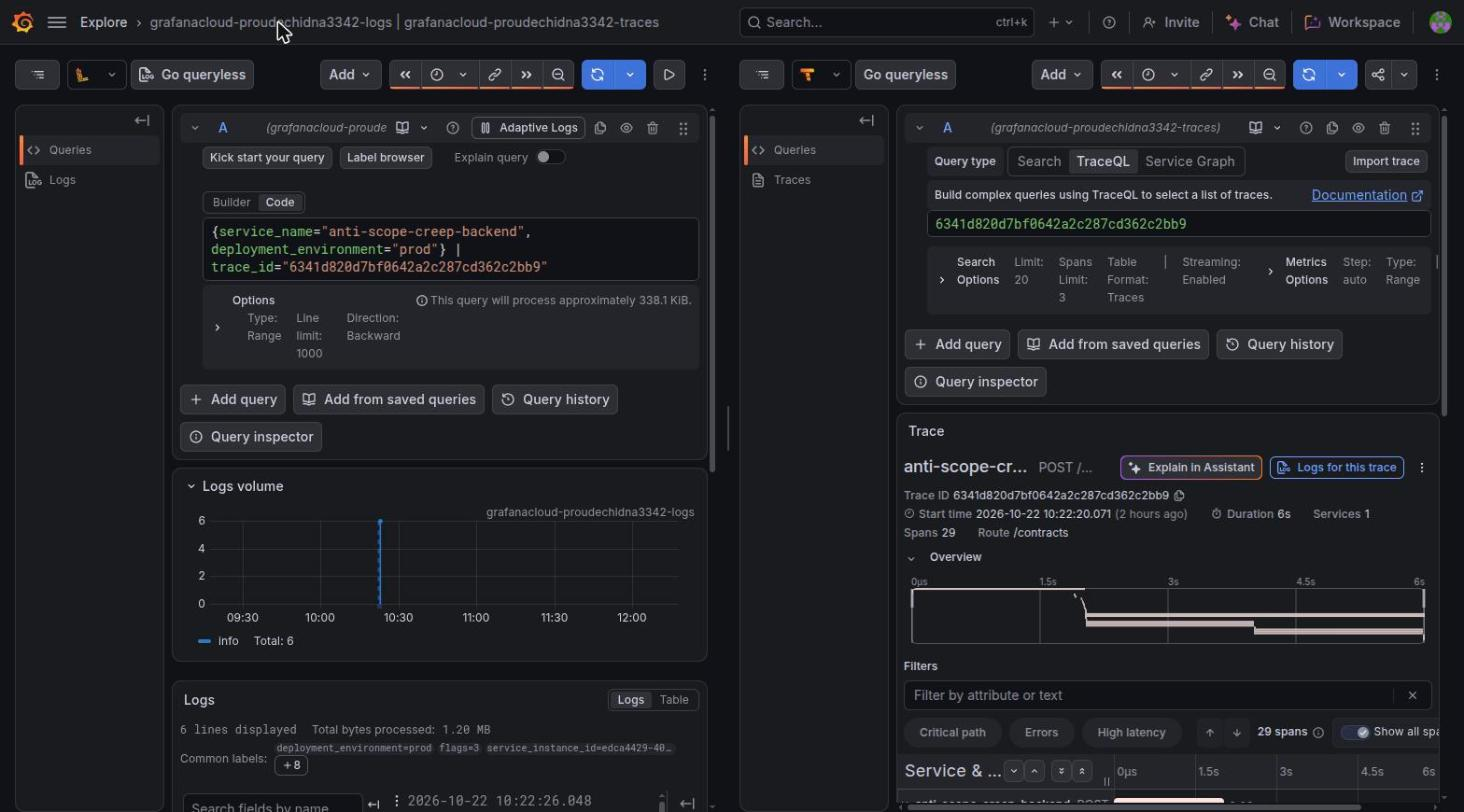
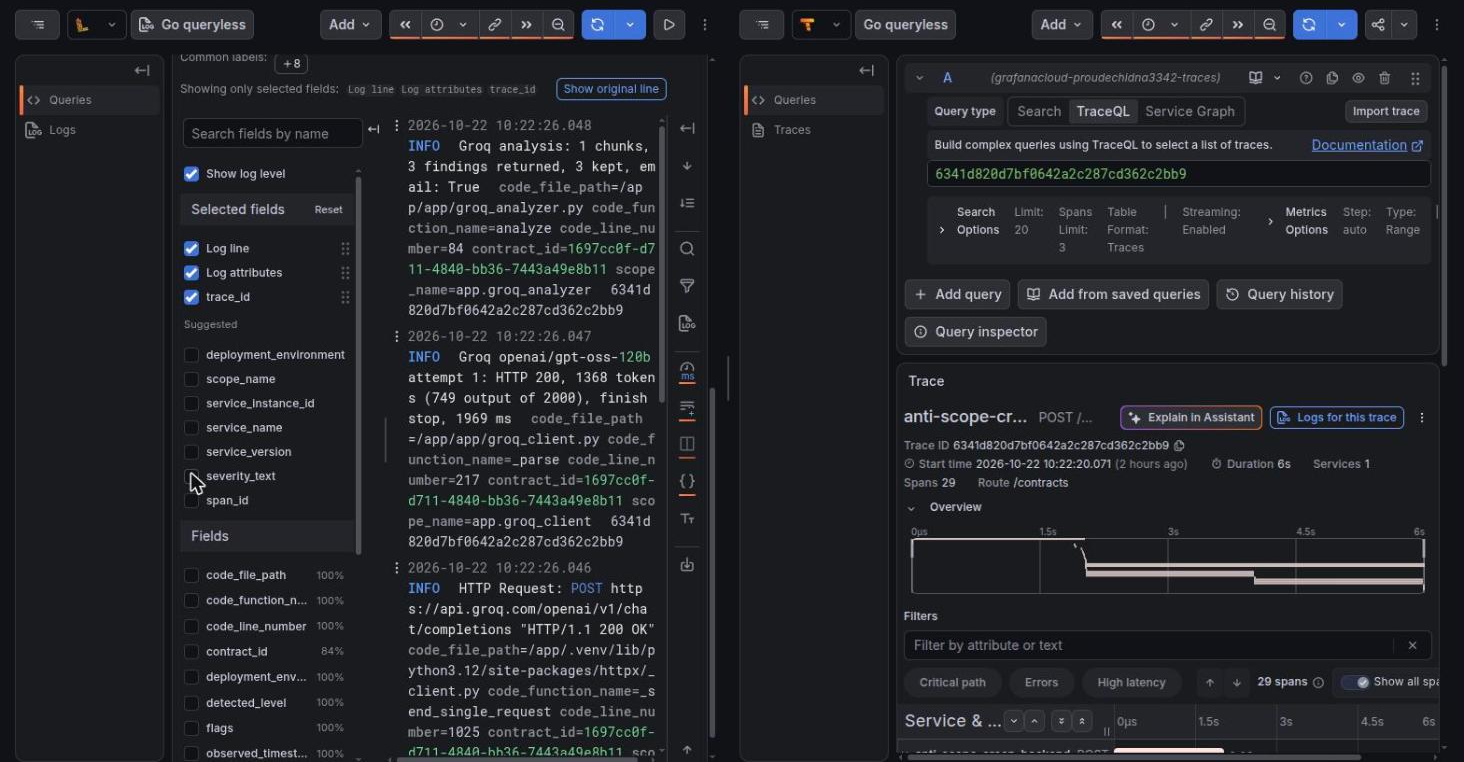
docs: README fixes after a cold read as a reviewer
The drill is described as a planned fault with a real alert; the tracker line says
when it was opened; unit and integration tests are named, with prerequisites;
Semgrep is report only; the Pro button is explained; screenshot 10 now shows the
trace_id in the log lines next to the same id in the trace, without the page header;
mcp-server is in the CI job list; the layout paragraph is gone.

diff --git a/README.md b/README.md
@@ -28,17 +28,17 @@ daily quota may be spent: try again later. [AI data policy](docs/ai-data-policy.
 | # | Criterion | Where to look | In one line |
 |---|---|---|---|
 | 1 | Problem Description | [Problem](#problem), [What it does](#what-it-does), [`spec.md`](docs/spec.md) | the problem, the behavior and screenshots are on this page |
-| 2 | Product Specification | [`docs/spec.md`](docs/spec.md), [GitHub Issues](https://github.com/vadimvvlasov/anti-scope-creep/issues) | data model, status flow, severity matrix, error codes; tracker with acceptance criteria, closed by pull requests (`Closes #n`) |
-| 3 | Agent Team Specification | [`docs/ai-workflow.md`](docs/ai-workflow.md#agent-team), [`docs/permissions.md`](docs/permissions.md) | ten roles, what each may and may not touch, a six-step flow |
+| 2 | Product Specification | [`docs/spec.md`](docs/spec.md), [GitHub Issues](https://github.com/vadimvvlasov/anti-scope-creep/issues) | data model, status flow, severity matrix, error codes; a public tracker (opened 2026-10-22, earlier work is planned in [`architecture.md`](docs/architecture.md) section 10) with acceptance criteria, closed by pull requests (`Closes #n`) |
+| 3 | Agent Team Specification | [`docs/ai-workflow.md`](docs/ai-workflow.md#agent-team), [`docs/permissions.md`](docs/permissions.md) | ten members (agents, CI and the owner), what each may and may not touch, a six-step flow |
 | 4 | Context Management | [`AGENTS.md`](AGENTS.md), [`frontend/AGENTS.md`](frontend/AGENTS.md) | one entry file with commands, rules and links to the modular docs |
 | 5 | Application | `frontend/`, `backend/`, [`openapi.yaml`](openapi.yaml) | React, FastAPI, Postgres; upload, background analysis, findings, report export |
-| 6 | Testing | [Tests](#tests), [`docs/testing.md`](docs/testing.md) | backend 419, frontend 71, Playwright end-to-end 11; CI on every pull request |
+| 6 | Testing | [Tests](#tests), [`docs/testing.md`](docs/testing.md) | unit: backend 419 (SQLite and PostgreSQL), frontend 71; integration: Playwright 11 against the Docker stack; CI on every pull request |
 | 7 | Containerization | [`compose.yaml`](compose.yaml), `backend/Dockerfile`, `frontend/Dockerfile` | `make up` starts Postgres, migrations, backend and frontend |
 | 8 | Deployment | [Deploy](#deploy-and-cicd), [`docs/deploy.md`](docs/deploy.md) | public URL; Cloudflare Workers, AWS Lightsail, Neon; a smoke test after every deploy |
-| 9 | CI/CD | [`.github/workflows/`](.github/workflows/), [Deploy](#deploy-and-cicd) | seven CI jobs on every pull request, auto deploy to dev, manual approved promote to prod, rollback in the [runbook](ops/runbook.md) |
-| 10 | Observability | [Observability](#observability-alerts-on-call-agent), [`ops/grafana/`](ops/grafana/README.md) | traces, metrics and JSON logs with one trace id in Grafana Cloud (dev and prod); no contract text in telemetry (tested) |
-| 11 | Alerting on User Impact | [`ops/grafana/alert-rules.yaml`](ops/grafana/alert-rules.yaml) | two rules on what a user notices; fired twice on a real fault; [alert email](docs/screenshots/07-alert-email-5xx.png) |
-| 12 | On-Call Agent | [`on-call.yml`](.github/workflows/on-call.yml), [drill write-up](ops/diagnosis/2026-10-21-oncall-drill.md) | a real alert woke the agent and it opened a fix pull request ([#72](https://github.com/vadimvvlasov/anti-scope-creep/pull/72)); the fourth run of the drill, see below |
+| 9 | CI/CD | [`.github/workflows/`](.github/workflows/), [Deploy](#deploy-and-cicd) | seven CI jobs, auto deploy to dev, manual approved promote to prod, [rollback](ops/runbook.md#roll-back-prod) |
+| 10 | Observability | [Observability](#observability-alerts-on-call-agent), [`ops/grafana/`](ops/grafana/README.md) | traces, metrics and JSON logs with one trace id in Grafana Cloud (dev and prod; it is private, the screenshots below are the evidence); no contract text in telemetry (tested) |
+| 11 | Alerting on User Impact | [`ops/grafana/alert-rules.yaml`](ops/grafana/alert-rules.yaml) | two rules on what a user notices; the 5xx rule fired twice in the drill; [alert email](docs/screenshots/07-alert-email-5xx.png) |
+| 12 | On-Call Agent | [`on-call.yml`](.github/workflows/on-call.yml), [drill write-up](ops/diagnosis/2026-10-21-oncall-drill.md) | a planned fault on dev, a real alert: the agent opened the fix pull request ([#72](https://github.com/vadimvvlasov/anti-scope-creep/pull/72)) on the fourth run, see below |
 
 The evidence per criterion and what is still open: [`docs/rubric.md`](docs/rubric.md).
 
@@ -58,6 +58,7 @@ every contract is not realistic, and there is rarely time to review one line by 
   the text leaves the backend, and restored in the answer
 - Contract Details shows the text beside the findings with highlights; export a PDF or DOCX report
 - A short contract takes seconds; a long one (about 55,000 characters) about three minutes on the free tier
+- The **Pro** button in the header records interest in a paid plan (a demand test, no payments)
 - **Planned, not built yet:** History Search answered by a text-to-SQL agent
   ([#86](https://github.com/vadimvvlasov/anti-scope-creep/issues/86); the screen exists and answers "coming
   soon"), and a classifier fine-tuned on CUAD
@@ -66,7 +67,7 @@ every contract is not realistic, and there is rarely time to review one line by 
 |---|---|---|
 | ![Login](docs/screenshots/01-login.png) | ![Contract history](docs/screenshots/02-contract-history.png) | ![New analysis](docs/screenshots/03-new-analysis.png) |
 
-| Contract Details: text beside findings, export | History Search: "coming soon" until #86 |
+| Contract Details: text beside findings, export (local demo data, stub analyzer) | History Search: "coming soon" until #86 |
 |---|---|
 | ![Contract details](docs/screenshots/04-contract-details.png) | ![History search](docs/screenshots/05-history-search.png) |
 
@@ -90,12 +91,13 @@ make down    # stop; the database volume is kept
 make test-all
 ```
 
-- Installs the dependencies, starts a throwaway PostgreSQL, runs the unit tests (backend on SQLite and
-  PostgreSQL, frontend with Vitest), starts the Docker stack, runs the Playwright end-to-end tests against
-  it and stops everything, also when a test fails
+- Needs Docker, [uv](https://docs.astral.sh/uv/) and Node.js 20+. It installs the dependencies, starts a
+  throwaway PostgreSQL, runs the **unit** tests (backend with pytest on SQLite and PostgreSQL, frontend with
+  Vitest), starts the Docker stack, runs the **integration** tests (Playwright against the real frontend,
+  backend and Postgres) and stops everything, also when a test fails
 - On 2026-10-22, from a fresh clone: backend 419 passed, frontend 71 passed, end-to-end 11 passed
-- CI runs the same tests on every pull request, plus Semgrep, a Docker build and a check that
-  `openapi.yaml` matches the routes
+- CI runs the same tests on every pull request, plus a Docker build, a check that `openapi.yaml` matches
+  the routes, and Semgrep (report only: findings are reviewed, they do not fail the build yet)
 - Step by step, and on a fresh Linux machine: [`docs/testing.md`](docs/testing.md)
 
 ## Deploy and CI/CD
@@ -120,11 +122,14 @@ make test-all
   and prod; logs and traces share a `trace_id`. No contract text and no exception message leave the service
   (tests: `test_telemetry_signals.py`, `test_telemetry_exceptions.py`)
 - **Dashboard and alerts:** a dashboard and two alert rules (failure rate of analyses, 5xx) as files in
-  [`ops/grafana/`](ops/grafana/README.md); an alert emails the owner and calls a webhook
+  [`ops/grafana/`](ops/grafana/README.md); an alert emails the owner and calls a webhook. Grafana Cloud is
+  private, so the screenshots below are the evidence; locally `make up-observability` starts a Grafana to
+  which you import `ops/grafana/dashboard.json`
 - **On-call agent:** Gemini in GitHub Actions wakes on an alert, investigates the commit that was running, and
   opens a fix pull request or an issue. It never merges or deploys; a person reviews
-- **How the drill went** ([write-up](ops/diagnosis/2026-10-21-oncall-drill.md)): the first three runs found the
-  cause but ended with no pull request or no verdict (a repository setting, then the turn budget, then a
+- **How the drill went** ([write-up](ops/diagnosis/2026-10-21-oncall-drill.md)): a planned regression on dev, a
+  real alert and a real agent run. The first three runs found the cause but ended with no pull request or no
+  verdict (a repository setting, then the turn budget, then a
   missing exception type in the context). After fixing those, the fourth run opened the fix pull request
   about three minutes after the alert email. It shows one kind of fault it can fix, not a success rate
   ([#82](https://github.com/vadimvvlasov/anti-scope-creep/issues/82))
@@ -159,8 +164,3 @@ make test-all
 | [`docs/eval.md`](docs/eval.md), [`eval/README.md`](eval/README.md) | how the analyzer is measured and the results |
 | [`security/README.md`](security/README.md) | scanner, dependency audit, model review, a decision per finding |
 | [`ops/README.md`](ops/README.md) | runbook and diagnoses |
-
-Repository layout: `frontend/` (React, Vite), `backend/` (FastAPI, SQLAlchemy, Alembic, tests), `openapi.yaml`,
-`docs/`, `ops/` (runbook, Grafana files, diagnoses), `eval/`, `data/` (synthetic contracts), `scripts/`,
-`.github/workflows/`, and the agent files (`agent-capabilities/`, `agent-hooks/`, `mcp-server/`, `plugins/`,
-`.claude/`).

diff --git a/docs/rubric.md b/docs/rubric.md
@@ -21,7 +21,7 @@ is written in the last column.
 | 8 | Deployment | 2 | 2 | section 7, README Deploy | public URL <https://anti-scope-creep.vadimvlasov.workers.dev> (frontend on Cloudflare Workers, backend on AWS Lightsail); a smoke test after every deploy; on 2026-10-22 prod runs `sha-fa46628`, the commit of `main` that was promoted, and the smoke test of the promote passed | none |
 | 9 | CI/CD | 3 | 3 | [`.github/workflows/`](../.github/workflows/): `ci.yml`, `deploy-dev.yml`, `promote-prod.yml` | CI (seven jobs) runs on every pull request and on `main`; `deploy-dev` deploys after CI on `main`; `promote-prod` is manual, with an approval (`environment: prod`); the `main` ruleset needs a pull request and green checks; a rollback is a promote of the previous tag ([`runbook.md`](../ops/runbook.md)) | none |
 | 10 | Observability | 2 | 2 | [`telemetry.py`](../backend/app/telemetry.py), section 6, [`ops/grafana/`](../ops/grafana/README.md) | traces and JSON logs carry the same trace id (metrics are labelled by environment and image); no contract text and no exception message reach telemetry (tests: `test_telemetry_signals.py`, `test_telemetry_exceptions.py`); the signals are stored in Grafana Cloud and shown on a dashboard ([API errors](../docs/screenshots/08-dashboard-api-errors.png), [traces](../docs/screenshots/09-dashboard-error-traces.png)); prod exports to the same Grafana Cloud stack since 2026-10-22 (the dashboard selector `prod` shows analyses and model calls, and Loki and Tempo hold prod logs and traces) | none |
-| 11 | Alerting on User Impact | 1 | 1 | [`ops/grafana/alert-rules.yaml`](../ops/grafana/alert-rules.yaml) | two rules on what a user notices (the failure rate of analyses, 5xx), applied in Grafana Cloud and fired twice on a real fault, with the [alert email](../docs/screenshots/07-alert-email-5xx.png) | none |
+| 11 | Alerting on User Impact | 1 | 1 | [`ops/grafana/alert-rules.yaml`](../ops/grafana/alert-rules.yaml) | two rules on what a user notices (the failure rate of analyses, 5xx), applied in Grafana Cloud; the 5xx rule fired twice during the on-call drill (a planned fault on dev), with the [alert email](../docs/screenshots/07-alert-email-5xx.png) | none |
 | 12 | On-Call Agent | 2 | 2 | [`on-call.yml`](../.github/workflows/on-call.yml), `scripts/oncall_*.py`, [`ops/diagnosis/2026-10-21-oncall-drill.md`](../ops/diagnosis/2026-10-21-oncall-drill.md) | a real alert woke the agent on the deployed commit; it wrote the fix and a test and opened pull request [#72](https://github.com/vadimvvlasov/anti-scope-creep/pull/72); a person reviewed and merged it | one finished run in four is not a measure of reliability ([#82](https://github.com/vadimvvlasov/anti-scope-creep/issues/82)) |
 
 Claimed total: 24 of 24. Where the claim is least firm: criterion 2, because the tracker is young and the

diff --git a/docs/deploy.md b/docs/deploy.md
@@ -9,7 +9,7 @@ incident steps are in [`../ops/runbook.md`](../ops/runbook.md).
 
 | Workflow | Trigger | What it does |
 |---|---|---|
-| `ci.yml` | pull requests, pushes to `main` | backend, frontend, e2e, scripts, Semgrep, Docker build |
+| `ci.yml` | pull requests, pushes to `main` | backend, frontend, mcp-server, e2e, scripts, Semgrep (report only), Docker build |
 | `deploy-dev.yml` | CI passed on `main`, or by hand | builds the backend image once (`ghcr.io/vadimvvlasov/anti-scope-creep-backend:sha-<short-sha>`) and deploys it to dev |
 | `promote-prod.yml` | by hand, optionally with an image tag | deploys an image that already ran in dev to prod, without a rebuild, after approval |
 | `deploy.yml` | called by the two above | runs migrations, deploys to Lightsail, builds and deploys the frontend, runs a smoke test |
